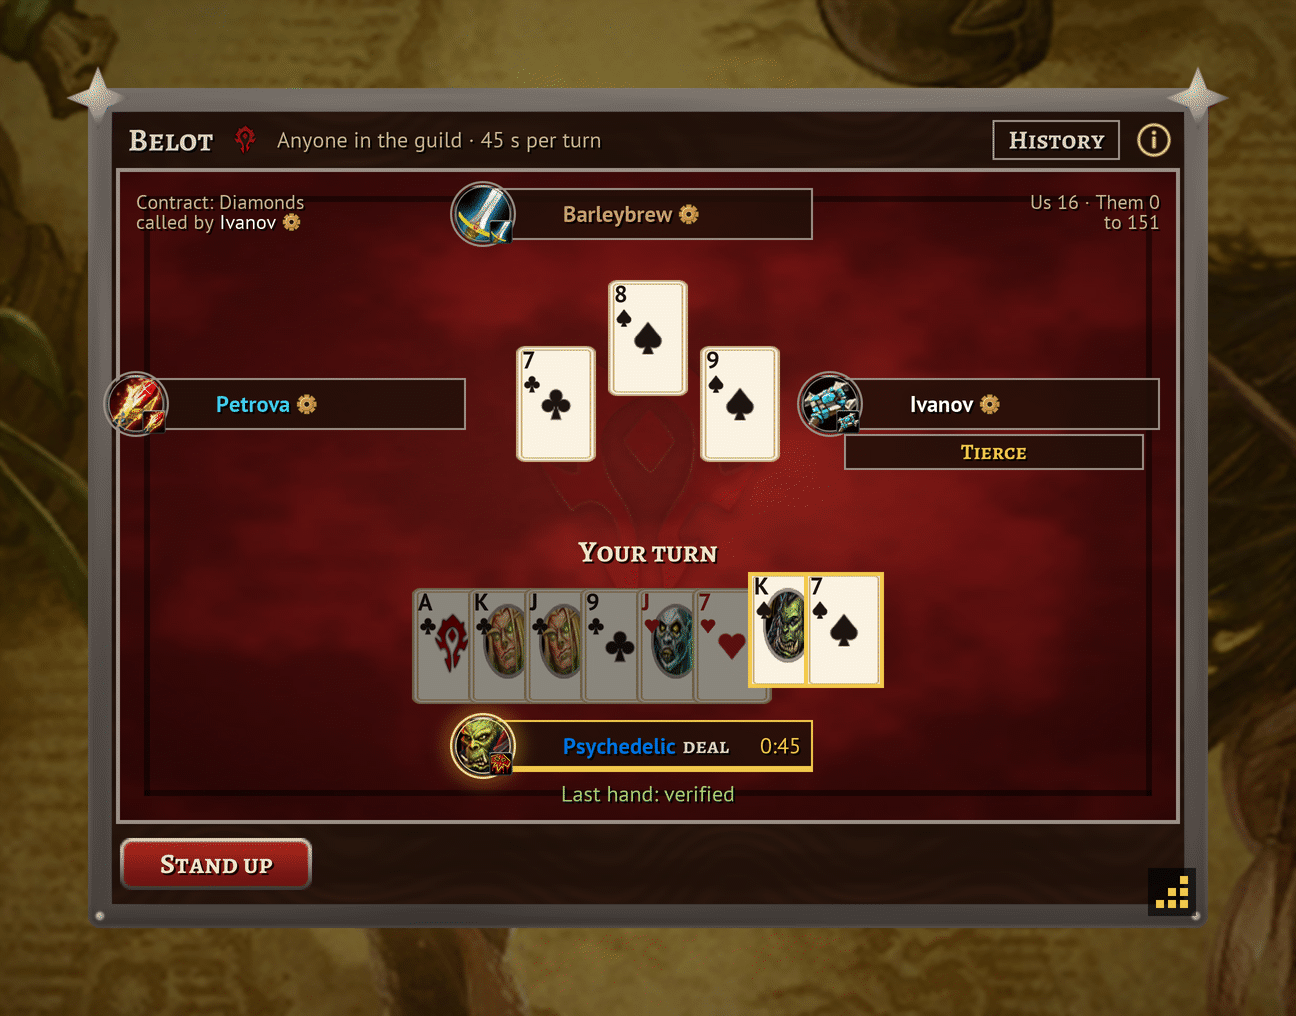
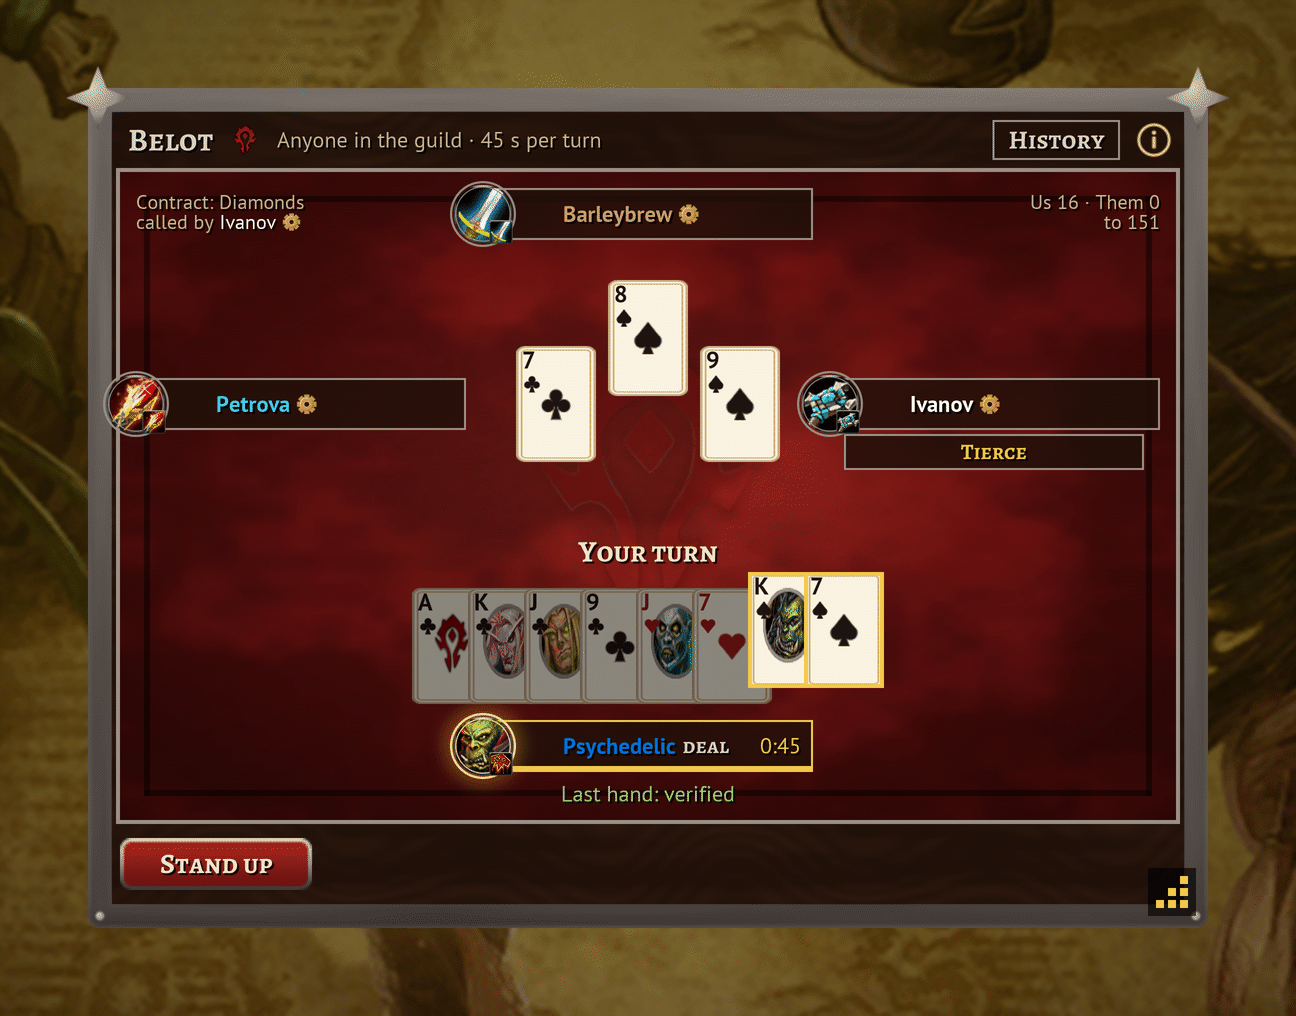
Settings: hovering a deck shows the whole deck; every king has his own face (#18)
- Settings, Deck: pointing at a deck opens its whole face side beside it (J, Q, K and A of every suit, and the back), drawn with the table's own cards.
- Decks: the gnome, troll and blood elf kings no longer share the jack's picture (old gnome head, red-mohawk troll, Kael'thas; the blood elf king is renamed Kael'thas).
- README shots re-rendered.

diff --git a/CHANGELOG.md b/CHANGELOG.md
@@ -3,6 +3,8 @@
 ## Unreleased
 
 - **Settings:** the Discord server's address now sits under the source code's, in the same box you can copy from.
+- **Settings, Deck:** point at a deck and its whole face side opens beside it: the jack, queen, king and ace of every suit, and the back.
+- **Decks:** every king now has his own face, never the jack's. Gnomes get an old gnome with a white moustache, trolls a red-mohawked troll, and the blood elves' king is now Kael'thas (the client has no Lor'themar portrait).
 
 ## 1.0.1 (2026-11-25)
 
